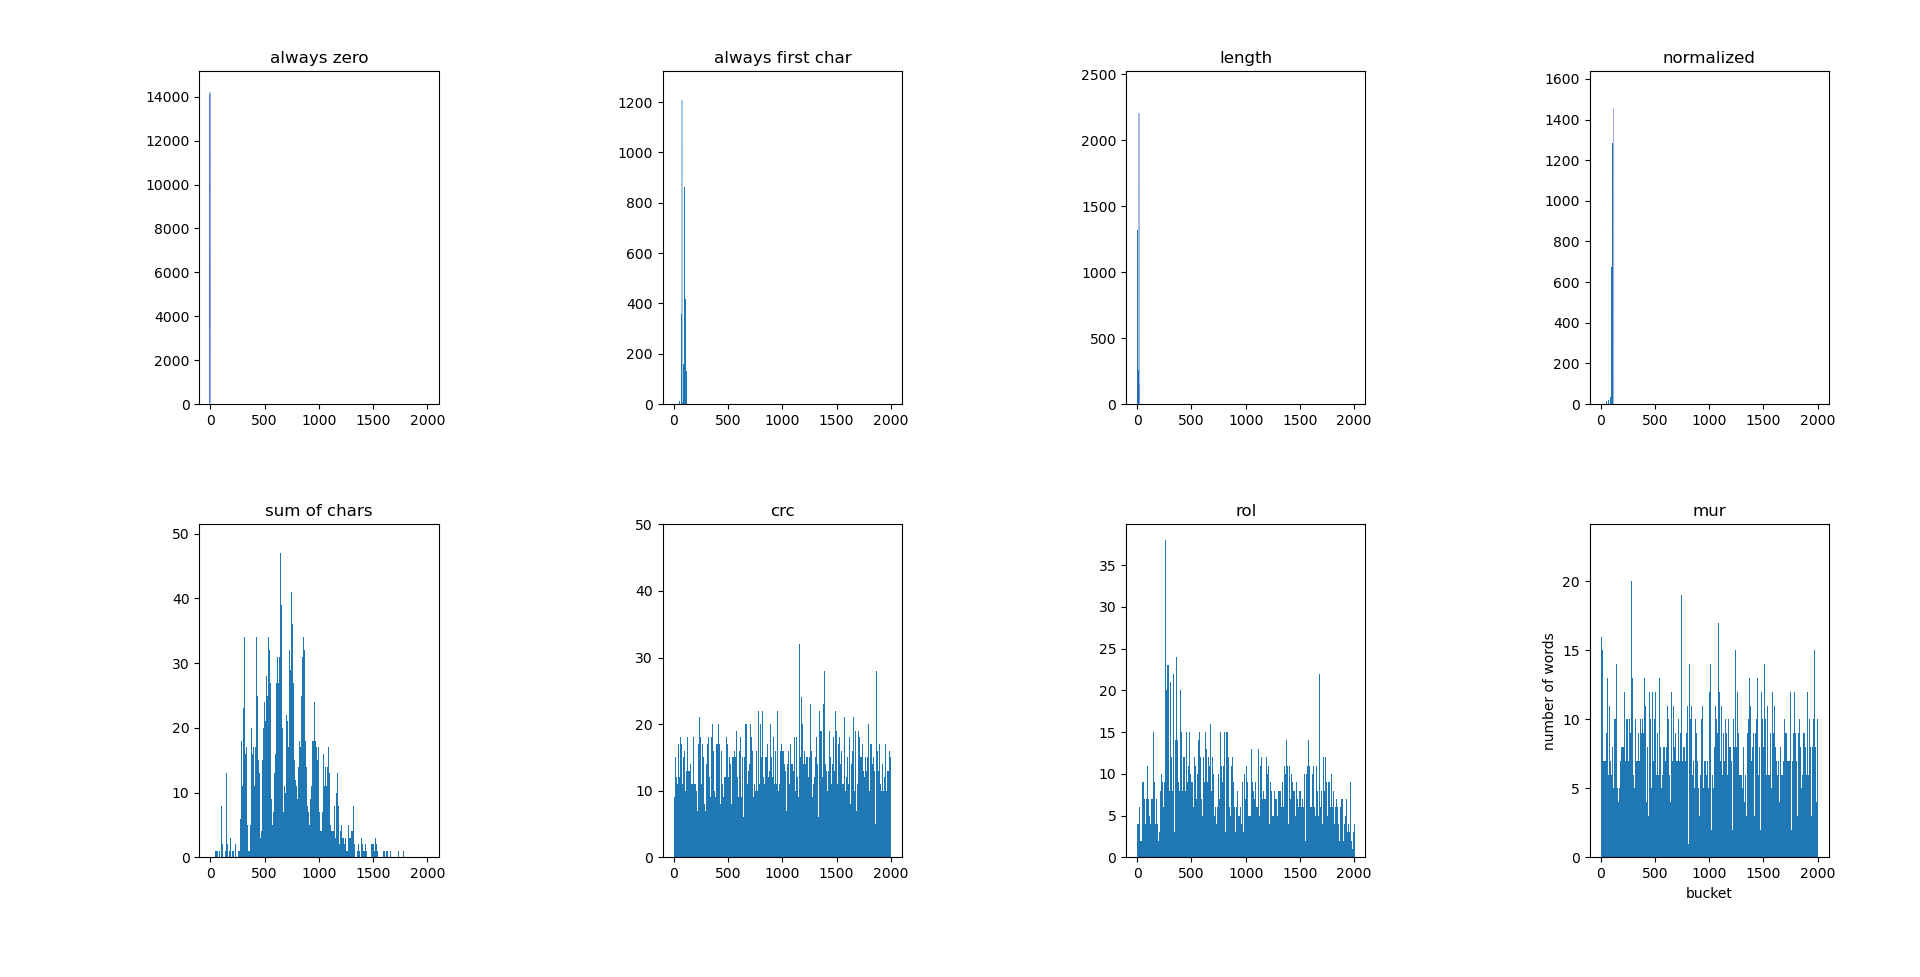
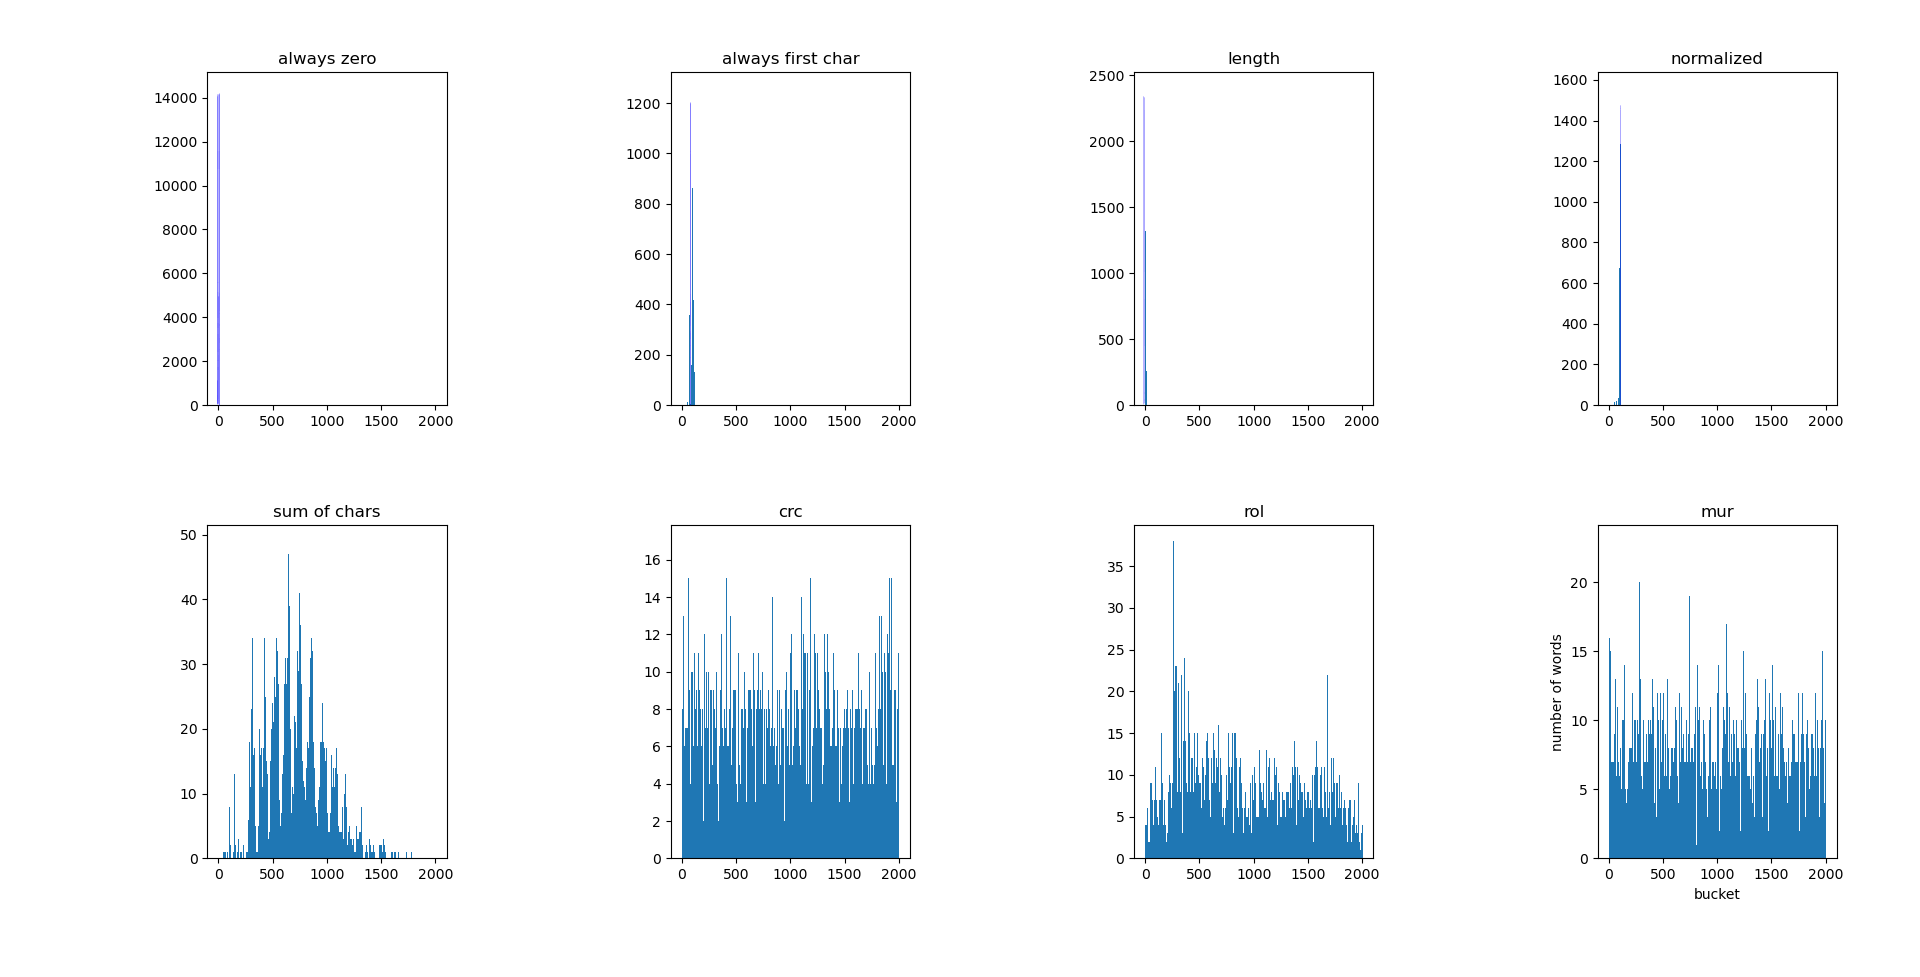
change README to explain crc32 optimization

diff --git a/graph.py b/graph.py
@@ -4,7 +4,6 @@ import numpy as np
 
 number_of_nuckets = 2003
 bar_width = 1.5
-max_hight = 50
 
 def find_destr(data):
     length = len(data)
@@ -100,7 +99,6 @@ axs[1, 0].set_title('sum of chars')
 
 axs[1, 1].bar([i for i in range(number_of_nuckets)], data_crc, width=bar_width, )
 axs[1, 1].set_title('crc')
-axs[1, 1].set_ylim(0, max_hight)
 
 axs[1, 2].bar([i for i in range(number_of_nuckets)], data_rol, width=bar_width)
 axs[1, 2].set_title('rol')

diff --git a/README.md b/README.md
@@ -6,6 +6,10 @@
 
 Создание и исследование системы которая, получив текстовый файл, может ответить сколько раз встречается данное слово. Для этого будем использовать hash-таблицу.
 
+## Немного о Hash table
+
+Хеш таблица - структура данных, реализующая интерфейс ассоциативного массива. Позволяет по ключу получить доступ к значению ключа. Основным отличием является использование хеш-функции (функция которая соотносит последовательности бит числовое значение, чаще всего не взаимнооднозначно), для доступа к значению.
+
 ## Hash table API
 
 `hash_table.h`
@@ -38,9 +42,9 @@ struct StringView {
 |-------------------|
 |всегда 0           |
 |всегда первая буква|
-|длинна слова       |
+|длина слова       |
 |сумма букв         |
-|сумма букв / длину |
+|(сумма букв) / длину |
 |crc32              |
 |rol                |
 |murmur2            |
@@ -51,62 +55,36 @@ struct StringView {
 
 ### Дисперсия
 
-| hash              | дисперсия    |
-|-------------------|--------------|
-| length            | $1.2 * 10^5$ |
-| always zero       | $1.0 * 10^5$ |
-| char sum          | $7.5 * 10^3$ |
-| always first char | $3.7 * 10^3$ |
-| crc32             | $8.8 * 10^2$ |
-| normalized        | $1.0 * 10^2$ |
-| rol               | $1.5 * 10^1$ |
-| murmur            | $1.0 * 10^1$ |
+| hash              | дисперсия    |        |
+|-------------------|--------------|--------|
+| always zero       | $1.0 * 10^5$ | 100000 |
+| length            | $1.2 * 10^4$ | 12000  |
+| char sum          | $7.5 * 10^3$ | 7500   |
+| always first char | $3.7 * 10^3$ | 3700   |
+| normalized        | $1.0 * 10^2$ | 100    |
+| rol               | $1.5 * 10^1$ | 15     |
+| murmur            | $1.0 * 10^1$ | 10     |
+| crc32             | $7.3 * 10^0$ | 7.3    |
 
 ### Результат
 
-Как мы видим `murmur hash` имеет наилучшую дисперсию так что будем использовать именно этот алгоритм.
+Как мы видим `crc32` имеет наилучшую дисперсию так что будем использовать именно этот алгоритм.
 
 ### Реализация на C
 
 ```cpp
-uint32_t HashMur(const uint8_t* ukey, size_t len) {
-    uint32_t h = 0xbebeb0ba;
-    uint32_t k = 0;
+uint32_t HashCRC(const char* key, size_t len) {
+    uint64_t crc32 = 0xbebeb0ba;
+    if (len == 0) { return crc32; }
 
-    for (size_t i = len >> 2; i; i--) {
-        memcpy(&k, ukey, sizeof(uint32_t));
-
-        ukey += sizeof(uint32_t);
-
-        h ^= HashScramble(k);
-        h = (h << 13) | (h >> 19);
-        h = h * 5 + 0xe6546b64;
+    for (Index i = 0; i < len; i++) {
+        __asm__ volatile ("crc32 %0, byte ptr [%1]\n"
+                          : "=r" (crc32)
+                          : "r" (key), "r" (crc32));
+        key++;
     }
 
-    k = 0;
-    for (size_t i = len & 3; i != 0; i--) {
-        k <<= 8;
-        k |= ukey[i - 1];
-    }
-
-    h ^= HashScramble(k);
-
-    h ^= (uint32_t)len;
-    h ^= h >> 16;
-    h *= 0x85ebca6b;
-    h ^= h >> 13;
-    h *= 0xc2b2ae35;
-    h ^= h >> 16;
-
-    return h;
-}
-
-inline uint32_t HashScramble(uint32_t k) {
-    k *= 0xcc9e2d51;
-    k = (k << 15) | (k >> 17);
-    k *= 0x1b873593;
-
-    return k;
+    return crc32;
 }
 ```
 
@@ -125,37 +103,23 @@ inline uint32_t HashScramble(uint32_t k) {
 | load factor        | **~7**                                        |
 | количество бакетов | **2003**                                      |
 | текст              | **Bible** (~788 000 слов, ~14 000 уникальных) |
-| утиилиты           | **[perf](https://perf.wiki.kernel.org/index.php/Main_Page)**, **[hotspot](https://github.com/KDAB/hotspot)** и **[hyperfine](https://github.com/sharkdp/hyperfine?tab=readme-ov-file) (--runs=120 --warmup=30)** |
+| утиилиты           | **[perf](https://perf.wiki.kernel.org/index.php/Main_Page)**, **[hotspot](https://github.com/KDAB/hotspot)** и **[hyperfine](https://github.com/sharkdp/hyperfine?tab=readme-ov-file) (--runs=20 --warmup=5)** |
 
 ## Первоначальная эффективность
 
-### main
-
-![noop_main](/images/noop_main.png)
-
-### strcmp
-
-![noop_strcmp](/images/noop_strcmp.png)
-
-### hash
-
-![noop_hash](/images/noop_hash.png)
-
-### access bucket
-
-![noop_acb](/images/noop_acb.png)
+![noop](/images/noop.png)
 
 |                | циклов затрачено | % от времени |
 |----------------|------------------|--------------|
-| `main`         | $4.392*10^{9}$   | $100$%       |
-| `strcmp`       | $1.575*10^{9}$   | $35.8$%      |
-| `Hash`         | $0.705*10^{9}$   | $16.0$%      |
-| `AccessBucket` | $0.465*10^{9}$   | $10.6$%      |
+| `main`         | $1.881*10^{10}$  | $100$%       |
+| `strcmp`       | $0.740*10^{10}$  | $39.3$%      |
+| `Hash`         | $0.151*10^{10}$  | $8.1$%       |
+| `AccessBucket` | $0.170*10^{10}$  | $9.0$%       |
 
 Дальнейшее сравнение времени будем проводить по времени всей программы с помощью **hyperfine**
 
 Время без оптимизаций:
-**$(4.83 \pm 0.23)$ s**
+**$(12.8 \pm 0.7)$ s**
 
 ## Оптимизация
 
@@ -181,85 +145,42 @@ int FasterStrcmp(const char word_key1[kWordMaxLen],
 ```
 
 Время при оптимизированной `strcmp`:
-**$(4.00 \pm 0.04)$ s**
+**$(10.554 \pm 0.022)$ s**, прирост производительности на $21$% (в сравнении с реализацией без оптимизаций)
 
 ### Hash
 
-Взглянем на ассемблер который порождает **clang 17.0** для функции хеша:
-```mk
-HashMur:                                ;# @HashMur
-        mov     eax, -1094799174
-        cmp     rsi, 4
-        jb      .LBB0_4
-        mov     rdx, rsi
-        mov     rcx, rsi
-        xor     r8d, r8d
-        shr     rdx, 2
-        and     rcx, -4
-.LBB0_2:                                ;# =>This Inner Loop Header: Depth=1
-        mov     r9d, dword ptr [rdi + 4*r8]
-        inc     r8
-        imul    r10d, r9d, -862048943
-        imul    r9d, r9d, 380141568
-        shr     r10d, 17
-        or      r10d, r9d
-        imul    r9d, r10d, 461845907
-        xor     r9d, eax
-        rorx    eax, r9d, 19
-        lea     eax, [rax + 4*rax - 430675100]
-        cmp     rdx, r8
-        jne     .LBB0_2
-        add     rdi, rcx
-.LBB0_4:
-        mov     rcx, rsi
-        and     rcx, 3
-        je      .LBB0_5
-        xor     r8d, r8d
-.LBB0_8:                                ;# =>This Inner Loop Header: Depth=1
-        movzx   edx, byte ptr [rdi + rcx - 1]
-        shl     r8d, 8
-        or      edx, r8d
-        dec     rcx
-        mov     r8d, edx
-        jne     .LBB0_8
-        jmp     .LBB0_6
-.LBB0_5:
-        xor     edx, edx
-.LBB0_6:
-        imul    ecx, edx, -862048943
-        imul    edx, edx, 380141568
-        xor     eax, esi
-        shr     ecx, 17
-        or      ecx, edx
-        imul    ecx, ecx, 461845907
-        xor     eax, ecx
-        mov     ecx, eax
-        shr     ecx, 16
-        xor     ecx, eax
-        imul    eax, ecx, -2048144789
-        mov     ecx, eax
-        shr     ecx, 13
-        xor     ecx, eax
-        imul    ecx, ecx, -1028477387
-        mov     eax, ecx
-        shr     eax, 16
-        xor     eax, ecx
-        ret
+В первоначальной реализации каждый символ хэшировался поочередно, однако мы  можоем векторизировать данный процесс.
+
+Векторизируем по 2 элемента:
+```c
+
+__attribute__((unused))
+uint32_t HashCRCFast(const char* key, size_t len) {
+    uint32_t crc32 = 0;
+    if (len == 0) { return crc32; }
+
+    for (Index i = 0; i < len >> 1; i++) {
+        __asm__ volatile ("crc32 %0, word ptr [%1]\n"
+                          : "=r" (crc32)
+                          : "r" (key), "r" (crc32));
+        key += sizeof(uint16_t);
+    }
+
+    if (trailer & 0b1) {
+        __asm__ volatile ("crc32 %0, byte ptr [%1]\n"
+                          : "=r" (crc32)
+                          : "r" (key), "r" (crc32));
+        key += sizeof(uint8_t);
+    }
+
+    return crc32;
+}
 ```
 
-Как мы видим основными операциями являются:
-
-1) Арифметические операции: `imul`, `xor`, `or`, `shl`, `shr`, `and`
-2) Условные переходы: `jne`, `je`, `jb`
-3) **mov** операторы: `mov`, `movzx`
-
-**"Медленными"** среди них являются условные переходы и mov операторы с памятью
-
-Мы можем уменьшить количество условных переходов до $1$ с помощью джамп-таблицы:
-**[hash_asm.asm](/src/source/hash_asm.asm)**
+Стоит отметить, что хэширование не по 2 символа за раз а например по 8, приводит к частой коллизии, причину которой я не смог выяснить.
 
 Время при оптимизированных `strcmp + Hash`:
-**$(3.94 \pm 0.04)$ s**
+**$(9.74 \pm 0.06)$ s**, прирост производительности на $8$% (в сравнении с оптимизацией только strcmp).
 
 ### AccessBucket
 
@@ -295,15 +216,15 @@ LList* AccessBucket(const HashTable* hash_table, uint32_t hash_value) {
 ![acb_noprob](/images/acb_noprob.png)
 
 Время при оптимизированных `strcmp + Hash + AccessBucket`:
-**$(3.93 \pm 0.04)$ s**
+**$(9.73 \pm 0.04)$ s**, что не отличается от предыдущего результата.
 
 <!-- //FIXME barret reduction -->
 
 ## Результат всех оптимизаций
 
-В результате всех оптимизаций время с **$(4.83 \pm 0.23)$ s** уменьшилось до **$(3.93 \pm 0.04)$ s**
+В результате всех оптимизаций время с **$(12.8 \pm 0.7)$ s** уменьшилось до **$(9.73 \pm 0.04)$ s**
 
-Таким образом мы добились прирост производительности в **19%**.
+Таким образом мы добились прирост производительности в **31%**.
 
 ## References
 
